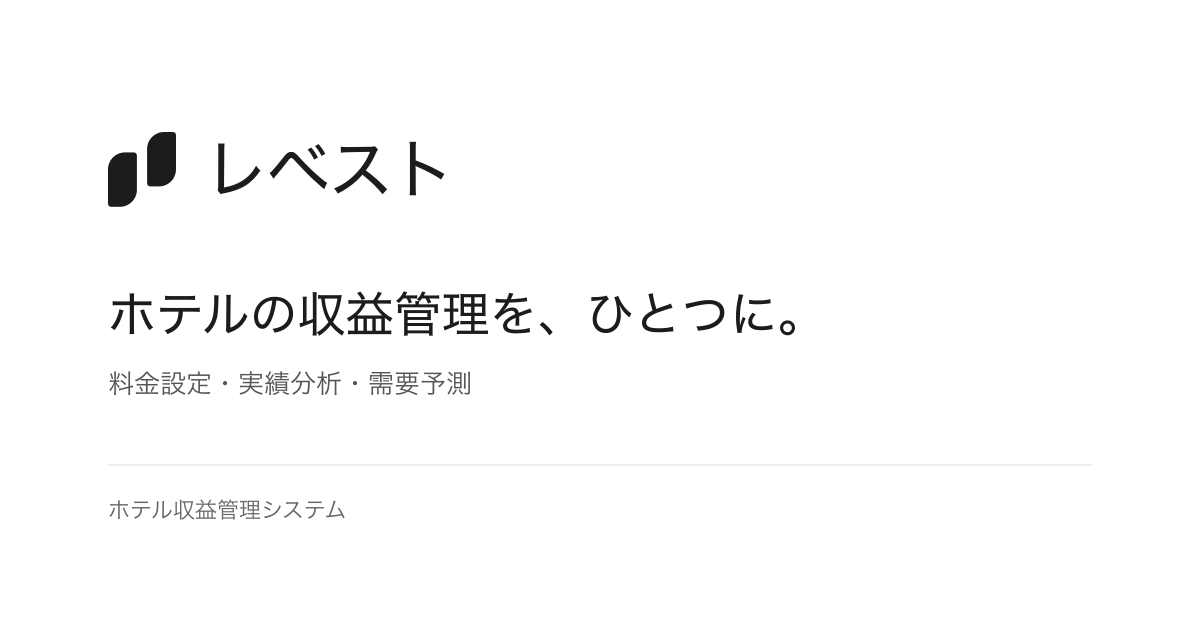
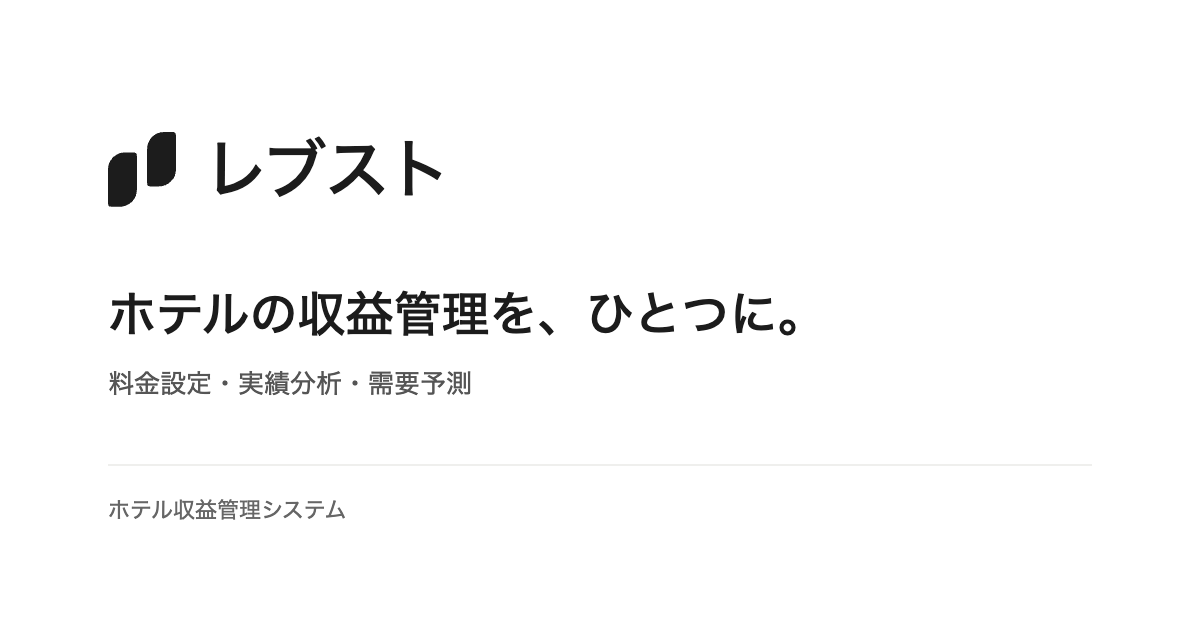
feat(platform): track feature adoption and unify レブスト branding (Task-operations)

diff --git a/frontend/components/operations-usage.tsx b/frontend/components/operations-usage.tsx
@@ -1,0 +1,36 @@
+"use client"
+import { useState } from 'react'
+import { USAGE_EVENTS, USAGE_LABELS } from '@shared/types/usage'
+import { useApiQuery } from '@/hooks/use-api-query'
+import { getUsageReport } from '@/lib/api/usage'
+import { ErrorState } from '@/components/error-state'
+import { Input } from '@/components/ui/input'
+import { Button } from '@/components/ui/button'
+
+export function OperationsUsage() {
+  const { data, loading, error, reload } = useApiQuery(getUsageReport, [], '活用状況を取得できませんでした')
+  const [period, setPeriod] = useState(30)
+  const [query, setQuery] = useState('')
+  const [selected, setSelected] = useState<string | null>(null)
+  if (loading) return <p role="status">活用状況を集計しています…</p>
+  if (error) return <ErrorState message={error} onRetry={reload} />
+  if (!data) return null
+  const cutoff = new Date(Date.now() + 9 * 3600000 - (period - 1) * 86400000).toISOString().slice(0, 10)
+  const rows = data.accounts.map(a => {
+    const days = a.days.filter(d => d.day >= cutoff)
+    const counts = Object.fromEntries(USAGE_EVENTS.map(e => [e, days.reduce((s, d) => s + (d.counts[e] ?? 0), 0)]))
+    const last = a.days.map(d => d.lastAt).sort().at(-1)
+    return { ...a, days, counts, last, total: Object.values(counts).reduce((s, n) => s + n, 0) }
+  })
+  const current = rows.find(a => a.id === selected)
+  return <div className="space-y-6">
+    <div className="flex flex-wrap items-center justify-between gap-3"><div className="flex gap-2">{[7, 30, 90].map(n => <Button key={n} variant={period === n ? 'default' : 'outline'} aria-pressed={period === n} onClick={() => setPeriod(n)}>直近{n}日</Button>)}</div><Button variant="ghost" onClick={() => void reload()}>最新に更新</Button></div>
+    <p className="text-xs leading-6 text-muted-foreground">{data.source === 'trial' ? '対象：外部配布トライアルの実際の操作（ホテル業務データ自体はサンプル）' : '対象：顧客・ホテルの操作'}<br />{data.startedAt ? `計測開始：${new Date(data.startedAt).toLocaleString('ja-JP')}。それ以前の利用履歴は含みません。` : '計測は導入済みです。初回の利用操作を待っています。'} チャット本文や入力内容は保存しません。</p>
+    <div className="grid grid-cols-2 gap-3 lg:grid-cols-4">{[
+      ['期間内に利用', `${rows.filter(a => a.total > 0).length}件`], ['操作の記録なし', `${rows.filter(a => a.total === 0).length}件`], ['チャット回答完了', `${rows.reduce((s, a) => s + a.counts.chat_completed, 0)}回`], ['レポート出力完了', `${rows.reduce((s, a) => s + a.counts.report_exported, 0)}回`],
+    ].map(([label, value]) => <div key={label} className="rounded-lg border p-5"><p className="text-xs text-muted-foreground">{label}</p><p className="mt-3 text-2xl font-semibold tabular-nums">{value}</p></div>)}</div>
+    <Input aria-label="活用状況の顧客を検索" placeholder="顧客名で検索" value={query} onChange={e => setQuery(e.target.value)} className="sm:max-w-sm" />
+    <div className="space-y-3">{rows.filter(a => a.name.toLowerCase().includes(query.toLowerCase())).map(a => <button key={a.id} aria-expanded={selected === a.id} onClick={() => setSelected(selected === a.id ? null : a.id)} className="w-full rounded-lg border p-5 text-left hover:border-foreground focus-visible:outline focus-visible:outline-2"><div className="flex flex-wrap justify-between gap-3"><span className="font-medium">{a.name}</span><span className="text-sm">{a.days.length}日利用 · {a.total}回の閲覧・操作</span></div><p className="mt-2 text-xs leading-6 text-muted-foreground">{a.last ? `最終操作：${new Date(a.last).toLocaleString('ja-JP')}` : '計測開始後の操作は未記録'}<span className="ml-3 underline">機能別の内訳を見る</span></p></button>)}{!rows.some(a => a.name.toLowerCase().includes(query.toLowerCase())) && <p className="p-5 text-sm text-muted-foreground">該当する顧客はありません。</p>}</div>
+    {current && <section className="space-y-4 rounded-lg border p-5"><h2 className="font-semibold">{current.name}の活用状況</h2><p className="text-xs leading-6 text-muted-foreground">閲覧は画面を開いた回数、完了は操作が成功した回数です。未記録は未利用の断定ではありません。</p><dl className="divide-y">{USAGE_EVENTS.map(e => <div key={e} className="flex justify-between gap-4 py-3 text-sm"><dt>{USAGE_LABELS[e]}</dt><dd className="tabular-nums">{current.counts[e]}回</dd></div>)}</dl><h3 className="text-sm font-medium">日別の記録</h3>{current.days.length ? current.days.slice().sort((a,b) => b.day.localeCompare(a.day)).map(d => <div key={d.day} className="flex justify-between text-sm"><span>{d.day}</span><span>{Object.values(d.counts).reduce((s,n) => s + n, 0)}回</span></div>) : <p className="text-sm text-muted-foreground">この期間の操作は記録されていません。</p>}</section>}
+  </div>
+}

diff --git a/frontend/components/operations-console.tsx b/frontend/components/operations-console.tsx
@@ -1,5 +1,6 @@
 "use client"
 
+import { OperationsUsage } from "@/components/operations-usage"
 import Link from "next/link"
 import { useState } from "react"
 import { useRouter, useSearchParams } from "next/navigation"
@@ -21,7 +22,7 @@ import { cn } from "@/lib/utils"
 const views = [
   { id: "overview", label: "概要", icon: LayoutDashboard, description: "顧客とトライアルの状況を、ひと目で確認。" },
   { id: "customers", label: "顧客一覧", icon: Building2, description: "顧客企業・ホテル・管理者を管理します。" },
-  { id: "usage", label: "利用状況", icon: ChartNoAxesColumn, description: "トライアルの最終ログインと、フォローが必要な相手を確認します。" },
+  { id: "usage", label: "活用状況", icon: ChartNoAxesColumn, description: "顧客ごとの利用頻度と、機能がどこまで活用されているかを確認します。" },
   { id: "trials", label: "トライアル管理", icon: Clock3, description: "営業先への発行から、期限の延長・停止まで。" },
 ] as const
 
@@ -56,7 +57,7 @@ function ConsoleContent({ onLogout }: { onLogout: () => Promise<void> }) {
     <aside className="border-b lg:fixed lg:inset-y-0 lg:w-60 lg:border-r lg:border-b-0">
       <div className="flex items-center justify-between px-5 py-5 lg:block"><BrandLogo /><p className="text-xs tracking-widest text-muted-foreground lg:mt-3">運営管理</p></div>
       <nav aria-label="運営メニュー" className="grid grid-cols-4 gap-1 px-3 pb-3 lg:grid-cols-1 lg:gap-2 lg:pt-7">{views.map(v => <button key={v.id} onClick={() => navigate(v.id)} aria-current={current.id === v.id ? "page" : undefined} className={cn("flex min-h-12 flex-col items-center justify-center gap-1 rounded-md px-1 py-3 text-xs focus-visible:outline focus-visible:outline-2 lg:flex-row lg:justify-start lg:gap-3 lg:px-4 lg:text-sm", current.id === v.id ? "font-semibold underline decoration-2 underline-offset-8" : "text-muted-foreground hover:text-foreground")}><v.icon className="h-4 w-4" aria-hidden /><span className="lg:hidden">{v.id === "trials" ? "トライアル" : v.label}</span><span className="hidden lg:inline">{v.label}</span></button>)}</nav>
-      <div className="hidden px-6 text-xs leading-6 text-muted-foreground lg:absolute lg:bottom-6 lg:block">レベスト 運営専用<br />ホテル画面とは別の管理画面です</div>
+      <div className="hidden px-6 text-xs leading-6 text-muted-foreground lg:absolute lg:bottom-6 lg:block">レブスト 運営専用<br />ホテル画面とは別の管理画面です</div>
     </aside>
     <div className="lg:ml-60">
       <header className="flex items-center justify-between gap-3 border-b px-5 py-3 sm:px-8"><p className="text-xs text-muted-foreground">運営管理 <span aria-hidden>/</span> {current.label}</p><div className="flex gap-2"><Button variant="ghost" size="icon" aria-label="配色を切り替える" onClick={() => setTheme(resolvedTheme === "dark" ? "light" : "dark")}><Sun className="h-4 w-4 dark:hidden" /><Moon className="hidden h-4 w-4 dark:block" /></Button><Button variant="ghost" size="sm" onClick={() => void onLogout()}><LogOut className="mr-2 h-4 w-4" />ログアウト</Button></div></header>
@@ -65,7 +66,8 @@ function ConsoleContent({ onLogout }: { onLogout: () => Promise<void> }) {
         {isDemoModeEnabled() && <p className="border-l-2 pl-3 text-xs leading-6 text-muted-foreground">顧客・ホテル情報はサンプルです。トライアルの情報・操作は実際の発行アカウントに反映されます。</p>}
         {current.id === "customers" && <TenantManagementSection />}
         {current.id === "trials" && <TrialManagementSection />}
-        {(current.id === "overview" || current.id === "usage") && <>
+        {current.id === "usage" && <OperationsUsage />}
+        {current.id === "overview" && <>
           {trials.error ? <ErrorState message={trials.error} onRetry={trials.reload} /> : trials.loading ? <p role="status">利用状況を読み込んでいます…</p> : <>
             <div className="grid grid-cols-2 gap-3 xl:grid-cols-4">{[
               { label: "利用中のトライアル", value: active.length, suffix: "件" },

diff --git a/frontend/lib/demo-trials/server/usage.ts b/frontend/lib/demo-trials/server/usage.ts
@@ -1,0 +1,35 @@
+import type { UsageDay, UsageEvent, UsageReport } from '@shared/types/usage'
+import type { DemoKv } from './kv'
+import { listTrials, trialSession } from './service'
+import { DemoTrialError } from '../core'
+import { USAGE_EVENTS } from '@shared/types/usage'
+
+// Only aggregate dates and feature identifiers. Never retain prompts, answers or entered values.
+export async function recordUsage(kv: DemoKv, cookie: string | undefined, event: unknown, now = Date.now()) {
+  const session = await trialSession(kv, cookie, now)
+  if (!session.active) throw new DemoTrialError(401, 'ログインしてください')
+  if (typeof event !== 'string' || !USAGE_EVENTS.includes(event as UsageEvent)) throw new DemoTrialError(400, '対象の操作が正しくありません')
+  const id = cookie!.split('.')[0] // identity is taken only from the verified signed cookie
+  const window = Math.floor(now / 60000)
+  if (await kv.incrWithTtl(`usage:limit:${id}:${window}`, 120) > 120) throw new DemoTrialError(429, 'しばらくしてからお試しください')
+  const key = `usage:trial:${id}`
+  const at = new Date(now).toISOString()
+  const day = new Date(now + 9 * 3600000).toISOString().slice(0, 10)
+  await kv.setIfAbsent('usage:startedAt', at)
+  await kv.setIfAbsent(key, '[]')
+  for (let attempt = 0; attempt < 10; attempt++) {
+    const before = await kv.get(key) ?? '[]'
+    const cutoff = new Date(now - 89 * 86400000 + 9 * 3600000).toISOString().slice(0, 10)
+    const days = (JSON.parse(before) as UsageDay[]).filter(d => d.day >= cutoff)
+    let row = days.find(d => d.day === day)
+    if (!row) { row = { day, counts: {}, lastAt: at }; days.push(row) }
+    row.counts[event as UsageEvent] = (row.counts[event as UsageEvent] ?? 0) + 1
+    row.lastAt = at
+    if (await kv.compareAndSet(key, before, JSON.stringify(days))) return
+  }
+  throw new DemoTrialError(503, '計測を保存できませんでした')
+}
+export async function usageReport(kv: DemoKv): Promise<UsageReport> {
+  const trials = await listTrials(kv)
+  return { source: 'trial', startedAt: await kv.get('usage:startedAt'), accounts: await Promise.all(trials.map(async t => ({ id: t.id, name: t.name, days: JSON.parse(await kv.get(`usage:trial:${t.id}`) ?? '[]') as UsageDay[] }))) }
+}

diff --git a/backend/src/services/usageService.ts b/backend/src/services/usageService.ts
@@ -1,0 +1,26 @@
+import { prisma } from '../lib/prisma.js'
+import type { UsageReport, UsageEventType as UsageEvent } from '@hotel-revenue-system/shared/types'
+
+export async function getUsageReportService(): Promise<UsageReport> {
+  const rows = await prisma.$queryRaw<Array<{ id: string; name: string; day: string; event: string; count: bigint; lastAt: Date }>>`
+    SELECT h.id, (t.name || ' / ' || h.name) AS name,
+      to_char(a."createdAt" AT TIME ZONE 'UTC' AT TIME ZONE 'Asia/Tokyo', 'YYYY-MM-DD') AS day,
+      substring(a.entity from 7) AS event, count(*) AS count, max(a."createdAt") AS "lastAt"
+    FROM "AuditLog" a JOIN "Hotel" h ON a."entityId" = h.id AND a."tenantId" = h."tenantId"
+    JOIN "Tenant" t ON t.id = h."tenantId"
+    WHERE a.action = 'USAGE' AND a.entity LIKE 'Usage:%' AND a."createdAt" >= NOW() - INTERVAL '90 days'
+    GROUP BY h.id, h.name, t.name, day, a.entity
+  `
+  const hotels = await prisma.hotel.findMany({ select: { id: true, name: true, tenant: { select: { name: true } } } })
+  const first = await prisma.auditLog.findFirst({ where: { action: 'USAGE', entity: { startsWith: 'Usage:' } }, orderBy: { createdAt: 'asc' }, select: { createdAt: true } })
+  return { source: 'customer', startedAt: first?.createdAt.toISOString() ?? null, accounts: hotels.map(h => {
+    const days: UsageReport['accounts'][number]['days'] = []
+    for (const r of rows.filter(r => r.id === h.id)) {
+      let d = days.find(d => d.day === r.day)
+      if (!d) { d = { day: r.day, counts: {}, lastAt: r.lastAt.toISOString() }; days.push(d) }
+      d.counts[r.event as UsageEvent] = Number(r.count)
+      if (d.lastAt < r.lastAt.toISOString()) d.lastAt = r.lastAt.toISOString()
+    }
+    return { id: h.id, name: `${h.tenant.name} / ${h.name}`, days }
+  }) }
+}

diff --git a/frontend/lib/demo-trials/server/usage.test.ts b/frontend/lib/demo-trials/server/usage.test.ts
@@ -1,0 +1,25 @@
+import { describe, it, expect, vi, afterEach } from 'vitest'
+import { memoryKv } from './kv'
+import { adminLogin, createTrial, trialLogin } from './service'
+import { recordUsage, usageReport } from './usage'
+afterEach(() => vi.unstubAllEnvs())
+describe('活用状況の共有計測', () => {
+  it('未認証は書き込めない', async () => {
+    await expect(recordUsage(memoryKv(), undefined, 'view_analysis')).rejects.toMatchObject({ status: 401 })
+  })
+  it('署名済みの本人にだけ集計し、並行操作でも回数を失わない', async () => {
+    vi.stubEnv("DEMO_PUBLIC_URL", "https://example.test")
+    vi.stubEnv("DEMO_TRIAL_CREDENTIALS_KEY", "ab".repeat(32))
+    const kv = memoryKv()
+    await adminLogin(kv, 'test-usage-password-1', null)
+    const trial = await createTrial(kv, { name: '計測テスト', kind: 'PROSPECT_HOTEL', days: 30 })
+    const login = await trialLogin(kv, trial.trial.loginEmail!, trial.password, null)
+    await Promise.all(Array.from({length: 4}, () => recordUsage(kv, login!.cookie, 'view_analysis')))
+    await recordUsage(kv, login!.cookie, 'chat_completed')
+    await expect(recordUsage(kv, login!.cookie, 'arbitrary')).rejects.toMatchObject({status:400})
+    const report = await usageReport(kv)
+    expect(report.accounts[0].days[0].counts).toEqual({view_analysis:4,chat_completed:1})
+    expect(report.startedAt).toBeTruthy()
+    expect(report.accounts[0].id).toBe(trial.trial.id)
+  })
+})

diff --git a/frontend/components/main-layout.tsx b/frontend/components/main-layout.tsx
@@ -1,5 +1,6 @@
 "use client"
 
+import { trackUsage } from "@/lib/api/usage"
 import { useRouter } from "next/navigation"
 import { useEffect, useState, useRef } from "react"
 import {
@@ -85,11 +86,20 @@ export function MainLayout() {
   const [pricingFocusDate, setPricingFocusDate] = useState<Date | null>(null)
   // ログアウト確認ダイアログ（F-5）
   const [logoutConfirmOpen, setLogoutConfirmOpen] = useState(false)
-  const { user, loading, logout, restoreError, retryRestore, canSwitchHotel, hotels } = useAuth()
+  const { user, loading, logout, restoreError, retryRestore, canSwitchHotel, hotels, hotelId } = useAuth()
 
   useEffect(() => {
     if (user?.role === "PLATFORM_ADMIN" && process.env.NEXT_PUBLIC_DEMO_ADMIN_CONSOLE === "true") router.replace("/operations")
   }, [user, router])
+
+  const usageView = useRef("")
+  useEffect(() => {
+    const key = `${user?.id}:${hotelId}:${activeTab}`
+    if (user && user.role !== "PLATFORM_ADMIN" && hotelId && usageView.current !== key) {
+      usageView.current = key
+      void trackUsage(`view_${activeTab}`, hotelId)
+    }
+  }, [activeTab, user, hotelId])
 
   // 表示中のタブをブラウザのタブ名に反映する（F-8）
   useEffect(() => {

diff --git a/frontend/lib/api/usage.ts b/frontend/lib/api/usage.ts
@@ -1,0 +1,18 @@
+import type { UsageEvent, UsageReport } from '@shared/types/usage'
+import { isDemoModeEnabled, rawRequest } from './client'
+export async function trackUsage(event: UsageEvent, hotelId: string) {
+  try {
+    if (isDemoModeEnabled()) {
+      await fetch('/api/demo/usage', { method: 'POST', credentials: 'same-origin', headers: { 'Content-Type': 'application/json' }, body: JSON.stringify({ event }), keepalive: true })
+    } else {
+      await rawRequest('/api/v1/usage', { method: 'POST', body: JSON.stringify({ event, hotelId }) })
+    }
+  } catch { /* Analytics must never interrupt the hotel workflow. */ }
+}
+export async function getUsageReport(): Promise<UsageReport> {
+  if (!isDemoModeEnabled()) return rawRequest('/api/v1/platform/usage')
+  const response = await fetch('/api/demo/usage', { cache: 'no-store', credentials: 'same-origin' })
+  const result = await response.json()
+  if (!response.ok || !result.success) throw new Error('活用状況を取得できませんでした')
+  return result.data
+}

diff --git a/backend/src/controllers/usageController.ts b/backend/src/controllers/usageController.ts
@@ -1,0 +1,15 @@
+import type { Request, Response } from 'express'
+import { asyncHandler } from '../middlewares/errorHandler.js'
+import { sendSuccess } from '../utils/response.js'
+import { writeAuditLog } from '../services/auditService.js'
+import { getUsageReportService } from '../services/usageService.js'
+import type { UsageEventInput } from '../lib/validators.js'
+export const recordUsage = asyncHandler(async (req: Request, res: Response) => {
+  const input = req.body as UsageEventInput
+  // Only the authenticated customer's own activity. Operator visits are not customer adoption.
+  if (req.user!.role !== 'PLATFORM_ADMIN') await writeAuditLog({ tenantId: req.user!.tenantId, userId: req.user!.userId, action: 'USAGE', entity: `Usage:${input.event}`, entityId: input.hotelId })
+  sendSuccess(res, null)
+})
+export const getUsage = asyncHandler(async (_req: Request, res: Response) => {
+  sendSuccess(res, await getUsageReportService())
+})

diff --git a/backend/src/services/accountMailService.test.ts b/backend/src/services/accountMailService.test.ts
@@ -9,8 +9,8 @@ const MAIL = { kind: 'invite' as const, to: 'new@example.com', name: '新人 太
 describe('buildTemporaryPasswordMail', () => {
   it('招待と再発行で件名を分け、ログイン URL・アドレス・一時パスワードを載せる', () => {
     const invite = buildTemporaryPasswordMail(MAIL, 'https://app.example.com')
-    expect(invite.subject).toBe('【レベスト】アカウントのご案内')
-    expect(invite.text).toContain('レベスト（Revenue Stream）のアカウントが作成されました。')
+    expect(invite.subject).toBe('【レブスト】アカウントのご案内')
+    expect(invite.text).toContain('レブスト（Revenue Stream）のアカウントが作成されました。')
     expect(invite.text).toContain('https://app.example.com')
     expect(invite.text).toContain('new@example.com')
     expect(invite.text).toContain('Abcdefgh2345')

diff --git a/frontend/components/chat-interface.tsx b/frontend/components/chat-interface.tsx
@@ -1,5 +1,7 @@
 "use client"
 
+import { trackUsage } from "@/lib/api/usage"
+
 import { useState, useRef, useEffect, useCallback, type KeyboardEvent } from "react"
 import { Button } from "@/components/ui/button"
 import { Textarea } from "@/components/ui/textarea"
@@ -69,6 +71,7 @@ function HotelChat({ isOpen, onClose, onRestoreFocus }: ChatInterfaceProps) {
     try {
       const conversation = history.slice(-20).map(({ role, content }) => ({ role, content }))
       const { reply } = await api.chat(hotelId, conversation)
+      void trackUsage("chat_completed", hotelId)
       setMessages((prev) => [...prev, { id: `${Date.now()}-a`, role: "assistant", content: reply, timestamp: new Date() }])
     } catch (err) {
       setError(err instanceof ApiClientError && err.message ? err.message : "回答を取得できませんでした。もう一度お試しください。")

diff --git a/frontend/components/settings/price-rank-section.tsx b/frontend/components/settings/price-rank-section.tsx
@@ -1,5 +1,7 @@
 "use client"
 
+import { trackUsage } from "@/lib/api/usage"
+
 // 料金ランク設定（U-3 / U-11 / U-15 / F-SET-02）
 // 一覧・追加（POST）・編集（PUT）・削除（DELETE）。最大40段階をUIで強制する。
 // 人数別価格は 1名 ≤ 2名 ≤ 3名 ≤ 4名 を zod でインライン検証する。
@@ -165,9 +167,11 @@ export function PriceRankSection() {
           return
         }
         await api.createPriceRank({ hotelId, rank: nextRankNumber, ...values })
+        void trackUsage("pricing_saved", hotelId)
         toast.success("料金ランクを追加しました")
       } else {
         await api.updatePriceRank(target.id, hotelId, values)
+        void trackUsage("pricing_saved", hotelId)
         toast.success("料金ランクを更新しました")
       }
       setTarget(null)

diff --git a/frontend/components/tabs/reports-tab.tsx b/frontend/components/tabs/reports-tab.tsx
@@ -1,5 +1,7 @@
 "use client"
 
+import { trackUsage } from "@/lib/api/usage"
+
 // レポートタブ（U-4 / F-REP-01・F-REP-02）
 // GET /api/v1/reports/monthly?format=pdf|excel を呼び、返ってきたバイナリを
 // ブラウザのダウンロードとして保存する。架空の「最近のレポート」「定期レポート設定」
@@ -54,6 +56,7 @@ export function ReportsTab() {
     setDownloading(true)
     try {
       const { blob, filename } = await api.monthlyReport(hotelId, year, month, reportFormat)
+      void trackUsage("report_exported", hotelId)
       const extension =
         REPORT_FORMATS.find((f) => f.value === reportFormat)?.extension ?? reportFormat
       const fallbackName = `月次レポート_${hotel?.name ?? "hotel"}_${year}-${String(month).padStart(2, "0")}.${extension}`
